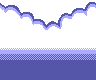
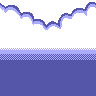
Stuff

Changed region(s): [[0.0, 0.5, 1.0, 0.75], [0.0, 0.0, 1.0, 0.375]]

diff --git a/output/js/player.js b/output/js/player.js
@@ -7,8 +7,8 @@ export class Player extends CollisionObject {
     constructor(x, y) {
         super(x, y);
         this.friction = new Vector2(0.1, 0.1);
-        this.hitbox = new Vector2(16, 16);
-        this.collisionBox = new Vector2(12, 12);
+        this.hitbox = new Vector2(12, 16);
+        this.collisionBox = new Vector2(8, 12);
         this.center = new Vector2();
         this.renderOffset = new Vector2(0, -2);
         this.inCamera = true;
@@ -41,13 +41,17 @@ export class Player extends CollisionObject {
     animate(ev) {
         const EPS = 0.01;
         const JUMP_EPS = 0.5;
+        const BASE_SPEED = 12;
+        const SPEED_MOD = 6;
         let frame;
+        let speed;
         if (this.canJump) {
             if (Math.abs(this.speed.x) < EPS) {
                 this.spr.setFrame(0, 0);
             }
             else {
-                this.spr.animate(0, 1, 4, 6, ev.step);
+                speed = BASE_SPEED - Math.abs(this.speed.x) * SPEED_MOD;
+                this.spr.animate(0, 1, 4, speed, ev.step);
             }
         }
         else {
@@ -83,8 +87,8 @@ export class Player extends CollisionObject {
     }
     draw(c) {
         let bmp = c.getBitmap("player");
-        let px = Math.round(this.pos.x) + this.renderOffset.x;
-        let py = Math.round(this.pos.y) + 1 + this.renderOffset.y;
+        let px = Math.floor(this.pos.x) + this.renderOffset.x;
+        let py = Math.floor(this.pos.y) + 1 + this.renderOffset.y;
         c.drawSprite(this.spr, bmp, px - this.spr.width / 2, py - this.spr.height / 2, this.flip);
     }
     setPosition(x, y) {

diff --git a/output/js/stage.js b/output/js/stage.js
@@ -46,16 +46,21 @@ export class Stage {
         this.cloudPos = (this.cloudPos + CLOUD_SPEED * ev.step) % 96;
     }
     drawBackground(c, cam) {
-        const CLOUD_Y = 64;
+        const CLOUD_Y = 48;
+        const DISTANCE_MOD = 4;
+        let camPos = cam.getTopLeftCorner();
+        let shifty = Math.floor((camPos.y - (this.height * 16 - c.height)) / DISTANCE_MOD);
         c.drawBitmap(c.getBitmap("sky"), 0, 0);
-        let p = -Math.floor(this.cloudPos);
+        let p = -Math.floor((this.cloudPos + camPos.x / DISTANCE_MOD) % 96);
         let bmp = c.getBitmap("background");
         for (let i = 0; i < 3; ++i) {
             if (i * 96 + p > 160 || i * 96 + p < -96)
                 continue;
-            c.drawBitmapRegion(bmp, 0, 0, 96, 48, i * 96 + p, CLOUD_Y);
+            // Cloud
+            c.drawBitmapRegion(bmp, 0, 0, 96, 48, i * 96 + p, CLOUD_Y - shifty);
+            // Water
             if (i < 2) {
-                c.drawBitmapRegion(bmp, 0, 48, 80, 32, i * 80, CLOUD_Y + 48);
+                c.drawBitmapRegion(bmp, 0, 48, 80, 48, i * 80, CLOUD_Y + 48 - shifty);
             }
         }
     }
@@ -86,8 +91,6 @@ export class Stage {
     }
     handleBaseTileCollision(o, layer, x, y, colId, ev) {
         let c = COLLISION_TABLE[colId];
-        let left = this.getCollisionTile(this.getTile(layer, x - 1, y) - 1);
-        let right = this.getCollisionTile(this.getTile(layer, x + 1, y) - 1);
         // Constant surfaces
         if ((c & COL_DOWN) == COL_DOWN) {
             o.verticalCollision(x * 16, y * 16, 16, 1, ev);

diff --git a/src/player.ts b/src/player.ts
@@ -24,8 +24,8 @@ export class Player extends CollisionObject {
         super(x, y);
 
         this.friction = new Vector2(0.1, 0.1);
-        this.hitbox = new Vector2(16, 16);
-        this.collisionBox = new Vector2(12, 12);
+        this.hitbox = new Vector2(12, 16);
+        this.collisionBox = new Vector2(8, 12);
         this.center = new Vector2();
         this.renderOffset = new Vector2(0, -2);
 
@@ -77,8 +77,11 @@ export class Player extends CollisionObject {
 
         const EPS = 0.01;
         const JUMP_EPS = 0.5;
+        const BASE_SPEED = 12;
+        const SPEED_MOD = 6;
 
         let frame : number;
+        let speed : number;
 
         if (this.canJump) {
 
@@ -88,7 +91,8 @@ export class Player extends CollisionObject {
             }
             else {
 
-                this.spr.animate(0, 1, 4, 6, ev.step);
+                speed = BASE_SPEED - Math.abs(this.speed.x) * SPEED_MOD;
+                this.spr.animate(0, 1, 4, speed, ev.step);
             }
         }
         else {
@@ -145,8 +149,8 @@ export class Player extends CollisionObject {
 
         let bmp = c.getBitmap("player");
 
-        let px = Math.round(this.pos.x) + this.renderOffset.x;
-        let py = Math.round(this.pos.y) + 1 + this.renderOffset.y;
+        let px = Math.floor(this.pos.x) + this.renderOffset.x;
+        let py = Math.floor(this.pos.y) + 1 + this.renderOffset.y;
 
         c.drawSprite(this.spr, bmp, 
             px - this.spr.width/2, 

diff --git a/src/stage.ts b/src/stage.ts
@@ -86,24 +86,30 @@ export class Stage {
 
     public drawBackground(c : Canvas, cam : Camera) {
 
-        const CLOUD_Y = 64;
+        const CLOUD_Y = 48;
+        const DISTANCE_MOD = 4;
+
+        let camPos = cam.getTopLeftCorner();
+        let shifty = Math.floor((camPos.y - (this.height*16 - c.height)) / DISTANCE_MOD);
 
         c.drawBitmap(c.getBitmap("sky"), 0, 0);
 
-        let p = -Math.floor(this.cloudPos);
+        let p = -Math.floor((this.cloudPos + camPos.x/DISTANCE_MOD) % 96) ;
         let bmp = c.getBitmap("background");
 
         for (let i = 0; i < 3; ++ i) {
 
             if (i*96 + p > 160 || i*96 + p < -96) continue;
 
+            // Cloud
             c.drawBitmapRegion(bmp, 0, 0, 96, 48,
-                i*96 + p, CLOUD_Y);
+                i*96 + p, CLOUD_Y - shifty);
 
+            // Water
             if (i < 2) {
 
-                c.drawBitmapRegion(bmp, 0, 48, 80, 32, 
-                    i*80, CLOUD_Y + 48);
+                c.drawBitmapRegion(bmp, 0, 48, 80, 48, 
+                    i*80, CLOUD_Y + 48 - shifty);
             }
         }
     }
@@ -154,10 +160,6 @@ export class Stage {
         colId : number, ev : GameEvent) {
 
         let c = COLLISION_TABLE[colId];
-
-        let left = this.getCollisionTile(this.getTile(layer, x-1, y)-1);
-        let right = this.getCollisionTile(this.getTile(layer, x+1, y)-1);
-
 
         // Constant surfaces
         if ((c & COL_DOWN) == COL_DOWN) {

diff --git a/output/js/camera.js b/output/js/camera.js
@@ -11,8 +11,7 @@ export class Camera {
         this.centerOffTarget = new Vector2();
     }
     followObject(o, ev) {
-        const EPS = 0.1;
-        const FORWARD = 32;
+        const FORWARD = 16;
         const MOVE_SPEED_X = 0.5;
         const VERTICAL_DEADZONE = 16;
         this.pos.x = o.getPos().x;
@@ -20,15 +19,7 @@ export class Camera {
         if (Math.abs(d) >= VERTICAL_DEADZONE) {
             this.pos.y = o.getPos().y + VERTICAL_DEADZONE * Math.sign(d);
         }
-        let target = o.getTarget().x;
-        let dir = 0;
-        if (Math.abs(target) > EPS) {
-            dir = Math.sign(target);
-        }
-        else if (Math.abs(o.getSpeed().x) < EPS) {
-            dir = 0;
-        }
-        this.centerOffTarget.x = dir * FORWARD;
+        this.centerOffTarget.x = o.getTarget().x * FORWARD;
         this.centerOff.x = updateSpeedAxis(this.centerOff.x, this.centerOffTarget.x, MOVE_SPEED_X * ev.step);
     }
     restrictCamera(x, y, w, h) {
@@ -64,6 +55,6 @@ export class Camera {
         }
     }
     use(c) {
-        c.moveTo(Math.round(-this.pos.x - this.centerOff.x + this.width / 2), Math.round(-this.pos.y - this.centerOff.y + this.height / 2));
+        c.moveTo(Math.floor(-this.pos.x - this.centerOff.x + this.width / 2), Math.floor(-this.pos.y - this.centerOff.y + this.height / 2));
     }
 }

diff --git a/src/camera.ts b/src/camera.ts
@@ -29,8 +29,7 @@ export class Camera {
 
     public followObject(o : GameObject, ev : GameEvent) {
 
-        const EPS = 0.1;
-        const FORWARD = 32;
+        const FORWARD = 16;
         const MOVE_SPEED_X = 0.5;
         const VERTICAL_DEADZONE = 16;
 
@@ -41,22 +40,9 @@ export class Camera {
             this.pos.y = o.getPos().y + VERTICAL_DEADZONE * Math.sign(d);
         }
 
-        let target = o.getTarget().x;
-        let dir = 0;
-        if (Math.abs(target) > EPS) {
-
-            dir = Math.sign(target);
-        }
-        else if (Math.abs(o.getSpeed().x) < EPS) {
-
-            dir = 0;
-        }
-
-        this.centerOffTarget.x = dir * FORWARD;
-
+        this.centerOffTarget.x = o.getTarget().x * FORWARD;
         this.centerOff.x = updateSpeedAxis(this.centerOff.x, 
             this.centerOffTarget.x, MOVE_SPEED_X * ev.step);
-        
     }
 
 
@@ -110,8 +96,8 @@ export class Camera {
     public use(c : Canvas) {
 
         c.moveTo(
-            Math.round(-this.pos.x - this.centerOff.x + this.width/2), 
-            Math.round(-this.pos.y - this.centerOff.y + this.height/2)
+            Math.floor(-this.pos.x - this.centerOff.x + this.width/2), 
+            Math.floor(-this.pos.y - this.centerOff.y + this.height/2)
         );
     }
 

diff --git a/output/js/gameobject.js b/output/js/gameobject.js
@@ -160,7 +160,8 @@ export class CollisionObject extends GameObject {
             !this.exist || this.dying ||
             this.speed.y * dir < EPS)
             return false;
-        if (this.pos.x + this.collisionBox.x / 2 < x || this.pos.x - this.collisionBox.x / 2 >= x + w)
+        if (this.pos.x + this.collisionBox.x / 2 < x ||
+            this.pos.x - this.collisionBox.x / 2 >= x + w)
             return false;
         let py = this.pos.y + this.center.y + dir * this.collisionBox.y / 2;
         if ((dir > 0 && py > y - NEAR_MARGIN * ev.step &&

diff --git a/src/gameobject.ts b/src/gameobject.ts
@@ -305,7 +305,8 @@ export abstract class CollisionObject extends GameObject {
             this.speed.y * dir < EPS)
             return false;
 
-        if (this.pos.x + this.collisionBox.x/2 < x || this.pos.x - this.collisionBox.x/2 >= x + w)
+        if (this.pos.x + this.collisionBox.x/2 < x || 
+            this.pos.x - this.collisionBox.x/2 >= x + w)
             return false;
 
         let py = this.pos.y + this.center.y + dir * this.collisionBox.y/2;
